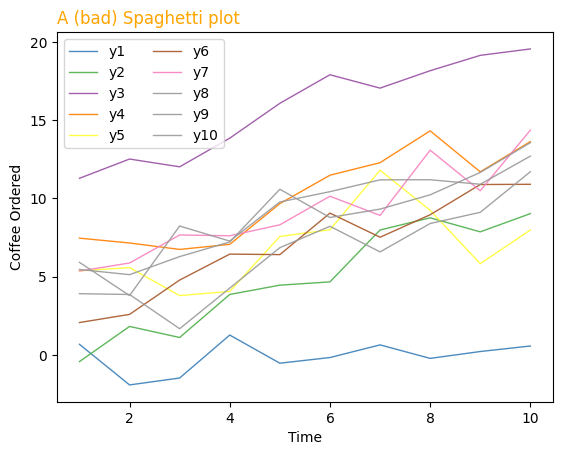
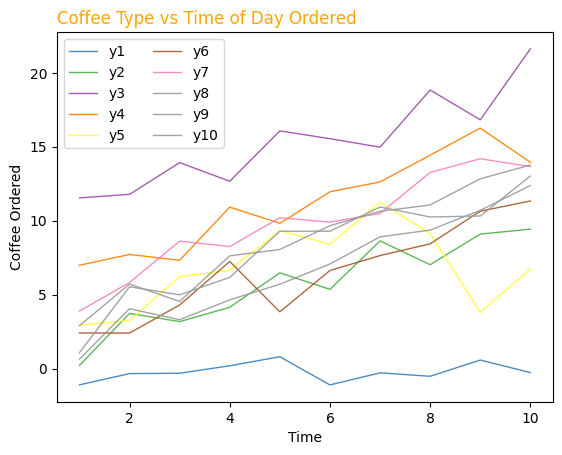
worked on spaghetti more

diff --git a/main.py b/main.py
@@ -39,7 +39,9 @@ plt.close()
 print (df["coffee_name"].value_counts())
 
 # SPAGHETTI PLOT
-df=pd.DataFrame({'x': range(1,11), 'y1': np.random.randn(10), 'y2': np.random.randn(10)+range(1,11), 'y3': np.random.randn(10)+range(11,21), 'y4': np.random.randn(10)+range(6,16), 'y5': np.random.randn(10)+range(4,14)+(0,0,0,0,0,0,0,-3,-8,-6), 'y6': np.random.randn(10)+range(2,12), 'y7': np.random.randn(10)+range(5,15), 'y8': np.random.randn(10)+range(4,14), 'y9': np.random.randn(10)+range(4,14), 'y10': np.random.randn(10)+range(2,12) })
+df=pd.DataFrame({'x': 'hour_of_day', 'y1': "Americano With Milk", 'y2': "Latte", 'y3': "Americano", 'y4': "Cappuccino", 'y5': "Cortado", 'y6': "Hot Chocolate", 'y7': "Cocoa", 'y8': "Espresso"})
+
+# df=pd.DataFrame({'x': range(1,11), 'y1': np.random.randn(10), 'y2': np.random.randn(10)+range(1,11), 'y3': np.random.randn(10)+range(11,21), 'y4': np.random.randn(10)+range(6,16), 'y5': np.random.randn(10)+range(4,14)+(0,0,0,0,0,0,0,-3,-8,-6), 'y6': np.random.randn(10)+range(2,12), 'y7': np.random.randn(10)+range(5,15), 'y8': np.random.randn(10)+range(4,14), 'y9': np.random.randn(10)+range(4,14), 'y10': np.random.randn(10)+range(2,12) })
  
 # Create a color palette
 palette = plt.get_cmap('Set1')
